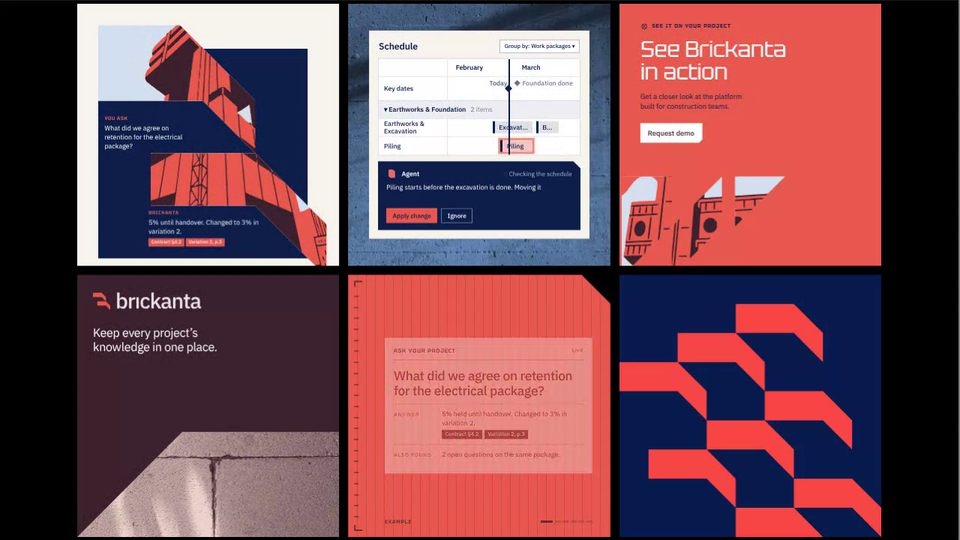
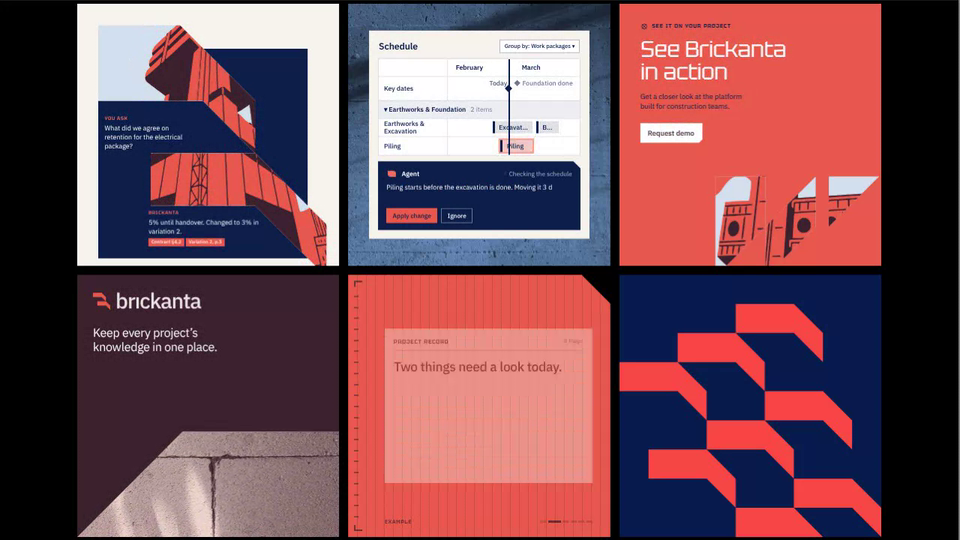
Brickanta Enterprise Visuals: footer shards on the right
Claude-Session: https://claude.ai/code/session_01AHeBdx6VwrnghjqkrgPY7Q

diff --git a/brickanta-enterprise-visuals/index.html b/brickanta-enterprise-visuals/index.html
@@ -181,7 +181,7 @@ figcaption{margin-top:14px;padding:18px 22px;background:var(--paper);color:var(-
       <h2>See Brickanta<br>in action</h2>
       <p>Get a closer look at the platform built for construction teams.</p>
       <span class="btn">Request demo</span>
-      <svg class="mk" id="morph" viewBox="0 0 6 6" preserveAspectRatio="none" aria-hidden="true"><defs><clipPath id="mkc"><polygon points="3.8,3.95 2.65,3.95 2.65,5.1"/><polygon points="2.35,3.95 1.2,5.1 1.2,6.25 2.35,5.1"/><polygon points="1.2,3.95 0.05,3.95 0.05,6.25 1.2,5.1"/></clipPath></defs><g clip-path="url(#mkc)"><use href="#ill2" x="-.2" y="2.1" width="6.4" height="8.5"/></g></svg>
+      <svg class="mk" id="morph" viewBox="0 0 6 6" preserveAspectRatio="none" aria-hidden="true"><defs><clipPath id="mkc"><polygon points="3.8,3.95 2.65,3.95 2.65,5.1"/><polygon points="2.35,3.95 1.2,5.1 1.2,6.25 2.35,5.1"/><polygon points="1.2,3.95 0.05,3.95 0.05,6.25 1.2,5.1"/></clipPath></defs><g clip-path="url(#mkc)" transform="translate(2.15 0)"><use href="#ill2" x="-.2" y="2.1" width="6.4" height="8.5"/></g></svg>
     </div>
     <figcaption>Footer shards</figcaption>
   </figure>
